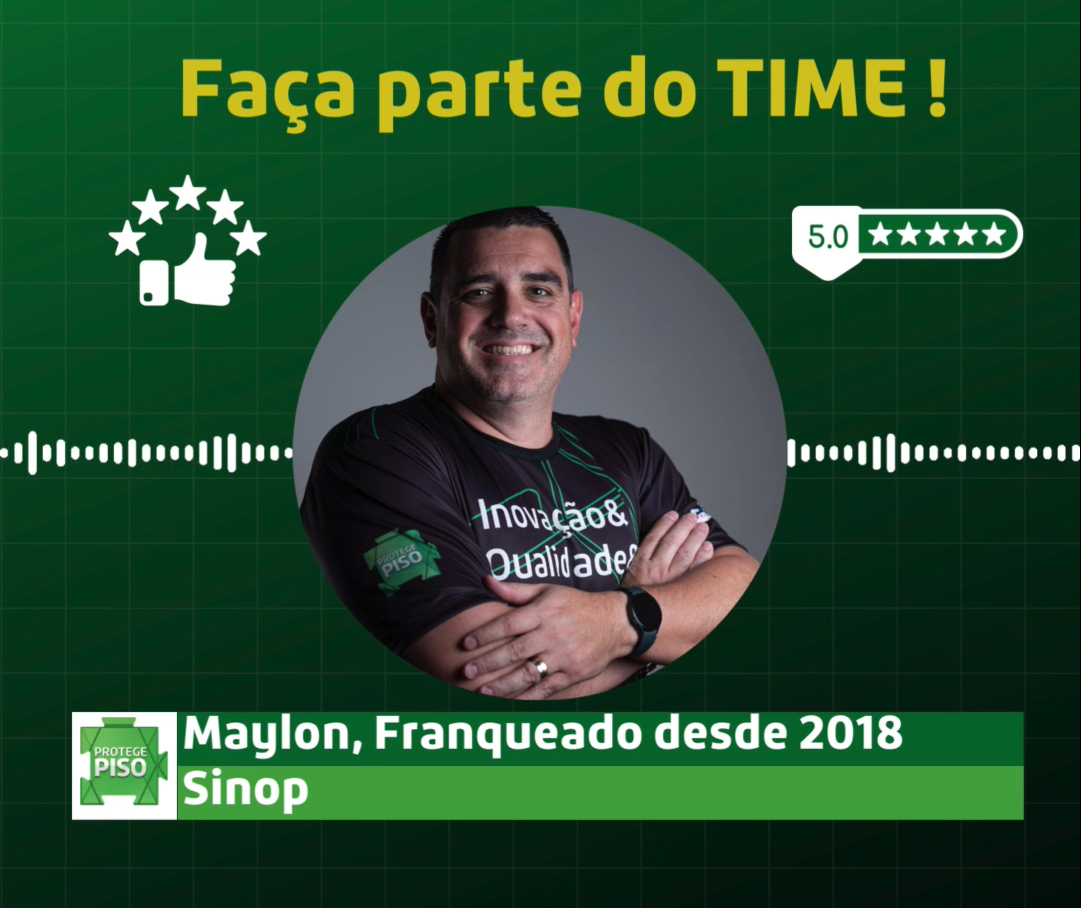
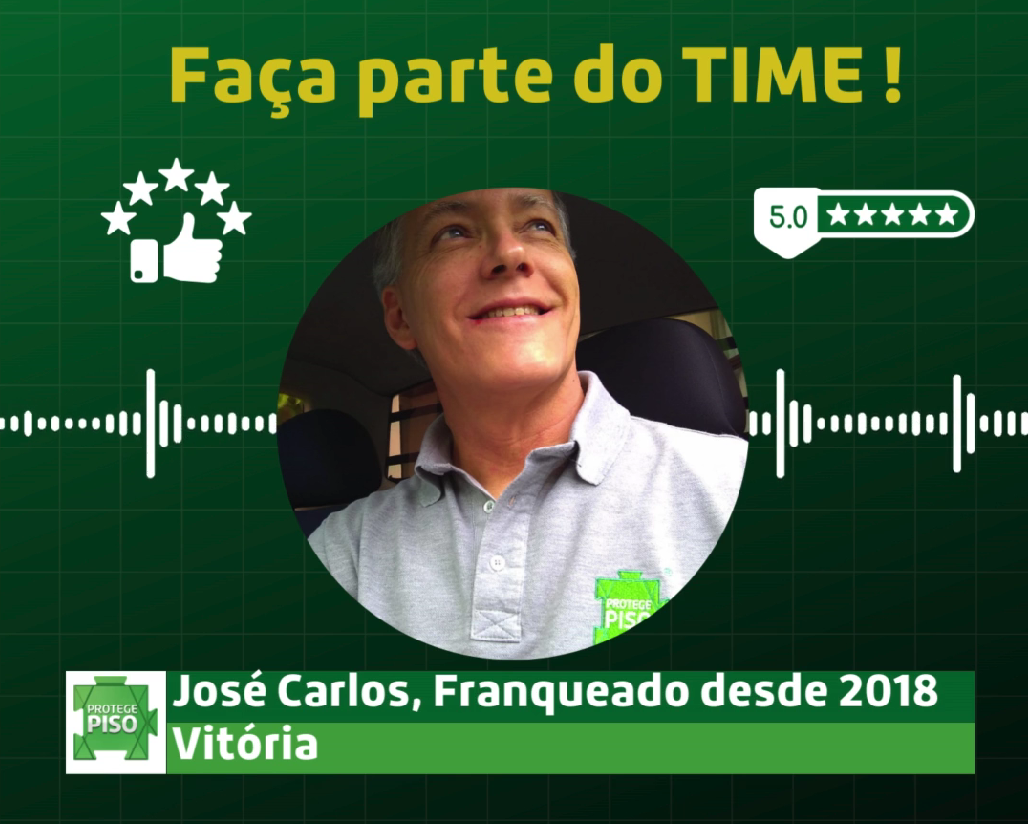
first commit vitoria

diff --git a/index.html b/index.html
@@ -5,7 +5,7 @@
     <meta charset="UTF-8">
     <meta name="viewport" content="width=device-width, initial-scale=1.0">
     <meta name="Landing Page" content="Website da franquia da protege piso de Palmas">
-    <title>Protege Piso Sinop</title>
+    <title>Protege Piso Vitória</title>
     <link rel="stylesheet" href="styles.css">
     <link rel="stylesheet" href="https://cdn.jsdelivr.net/npm/glider-js@1/glider.min.css">
     <script src="https://cdn.jsdelivr.net/npm/glider-js@1/glider.min.js"></script>
@@ -31,7 +31,7 @@
                 <div class="navbar-container">
                     <a href="#" class="logo">
                         <img src="./images/logoprotege.png" alt="Logo da protege piso">
-                        <h3>Sinop</h3>
+                        <h3>Vitória</h3>
                     </a>
 
                     <div class="menu-toggle" id="mobile-menu" onclick="toggleMenu()">
@@ -45,7 +45,7 @@
                         <li class="nav-item"><a href="#Informacoes" class="nav-link">Informações</a></li>
                         <li class="nav-item"><a href="#" class="nav-link" id="openChatBtn">Seja um franqueado</a></li>
                         <li class="nav-item">
-                            <a href="https://api.whatsapp.com/send?phone=5566992209779" target="_blank">
+                            <a href="https://api.whatsapp.com/send?phone=5527997170077" target="_blank">
                                 <img src="images/icone_whatsapp.png" alt="icone logo whatsapp" class="whatsapp-icon-nav"
                                     style="margin-right: 10px;">
                             </a>
@@ -172,7 +172,7 @@
             </p>
         </div>
         <div class="container-iframe">
-            <iframe src="https://app.ketzim.com/webservice/mapa/dourados/" class="iframe-full" title="Mapa das obras realizadas na cidade da franquia"></iframe>
+            <iframe src="https://app.ketzim.com/webservice/mapa/vitoria/" class="iframe-full" title="Mapa das obras realizadas na cidade da franquia"></iframe>
         </div>
     </section>
 
@@ -185,7 +185,7 @@
                 <p id="followers"></p>
                 <p id="posts"></p>
             </div>
-            <a href="https://www.instagram.com/protegepisomt/" target="_blank"><button type="button"
+            <a href="https://www.instagram.com/protegepisovitoria/" target="_blank"><button type="button"
                     class="botao-seguir">Seguir</button></a>
         </div>
         <div class="glider-contain-custom">
@@ -197,7 +197,7 @@
     </section>
 
     <section class="container-quem-somos" id="QuemSomos">
-        <h3>EM DOURADOS DESDE 2018</h3>
+        <h3>EM VITÓRIA DESDE 2018</h3>
         <img src="images/na_cidade_desde.PNG" class="imagem-quem-somos" alt="imagem do franqueado">
     </section>
 
@@ -208,21 +208,20 @@
 
         <div class="rodape-informacoes">
             <h5>Franquia</h5>
-            <p>maylon@protegepiso.com.br</p>
+            <p>josecarlos@protegepiso.com.br</p>
             <div class="item-rodape">
-                <a href="https://api.whatsapp.com/send?phone=5566992209779" target="_blank">
+                <a href="https://api.whatsapp.com/send?phone=5527997170077" target="_blank">
                     <img src="images/icone_whatsapp.png" alt="icone logo whatsapp"
                         class="rodape-informacoes-icone-whatsapp">
                 </a>
-                <p>(66) 99220-9779</p>
+                <p>(27) 99717-0077</p>
             </div>
             <div class="item-rodape">
-                <a href="https://www.instagram.com/protegepisomt/" target="_blank">
+                <a href="https://www.instagram.com/protegepisovitoria/" target="_blank">
                     <img src="images/icone_instagram.png" alt="icone logo instagram"
                         class="rodape-informacoes-icone-instagram">
                 </a>
-                <p>@protegepisomt
-                </p>
+                <p>@protegepisovitoria</p>
             </div>
         </div>
 

diff --git a/index.js b/index.js
@@ -39,7 +39,7 @@ function toggleMenu() {
     menu.classList.toggle('active');
 }
 
-const apiUrl = 'https://app.ketzim.com/webservice/get-instagram-info/ProtegePisoSinop/?Token=Ld7gRCo9JtIRw0Ub3sC3JxuCgIMvSAzJEMLSutCPh9XosGzzqpdlhsqhUYXHHRyHKPZ6MHcwfl8Dl7ohzsKv7jpihquxHvFmEkFJ';
+const apiUrl = 'https://app.ketzim.com/webservice/get-instagram-info/ProtegePisoVitoria/?Token=Ld7gRCo9JtIRw0Ub3sC3JxuCgIMvSAzJEMLSutCPh9XosGzzqpdlhsqhUYXHHRyHKPZ6MHcwfl8Dl7ohzsKv7jpihquxHvFmEkFJ';
 
 function displayUserProfile(profile) {
     document.getElementById('profile-picture').src = profile.profile_picture_url;
@@ -134,7 +134,7 @@ function waitForJivoChat() {
 waitForJivoChat();
 
 const iframeContainer = document.querySelector('.container-iframe');
-const iframeUrl = 'https://app.ketzim.com/webservice/mapa/sinop/';
+const iframeUrl = 'https://app.ketzim.com/webservice/mapa/vitoria/';
 
 
 fetch(iframeUrl)
@@ -151,3 +151,5 @@ fetch(iframeUrl)
     iframeContainer.innerHTML = '<p>O mapa está temporariamente indisponível. Por favor, tente novamente mais tarde.</p>';
     console.error('Erro ao carregar o mapa:', error);
   });
+
+
